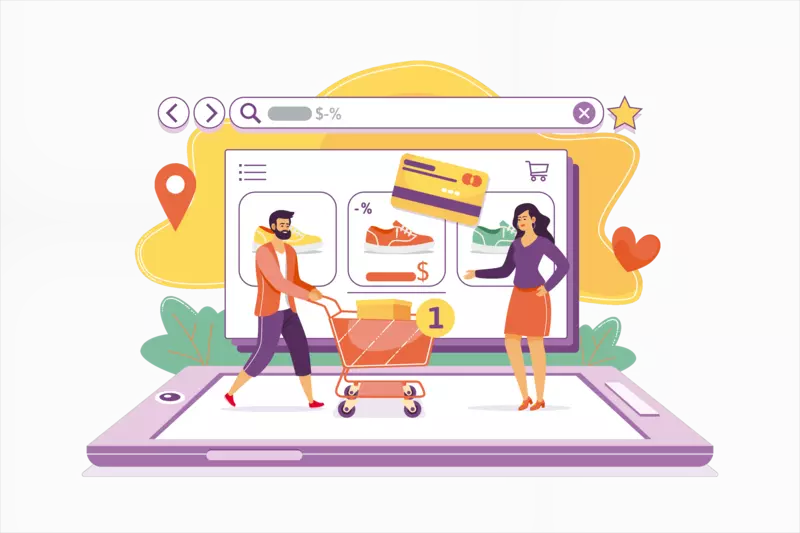
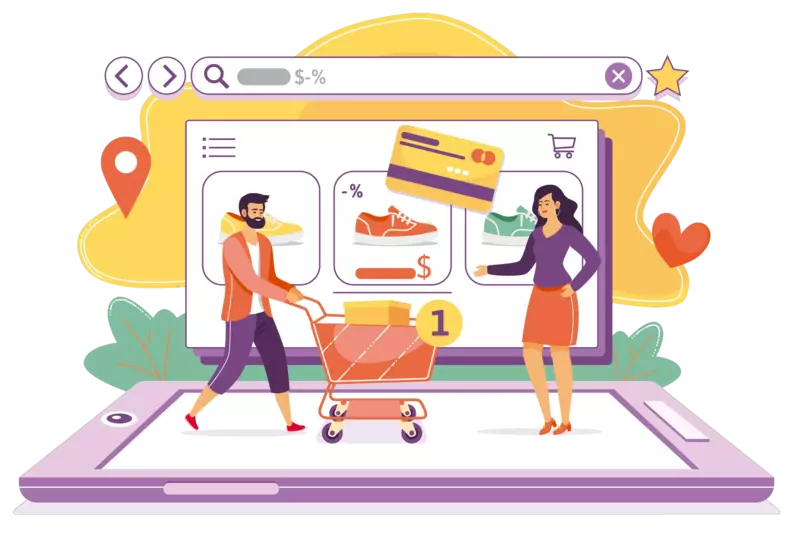
commit

diff --git a/src/components/layout.js b/src/components/layout.js
@@ -2,7 +2,7 @@ import React from "react";
 import PropTypes from "prop-types";
 import { StaticQuery, graphql } from "gatsby";
 
-import heroImg from "../images/ecommerce-uruguay.png";
+import heroImg from "../images/ecommerce-uruguay.webp";
 
 function Layout({ children }) {
   return (
